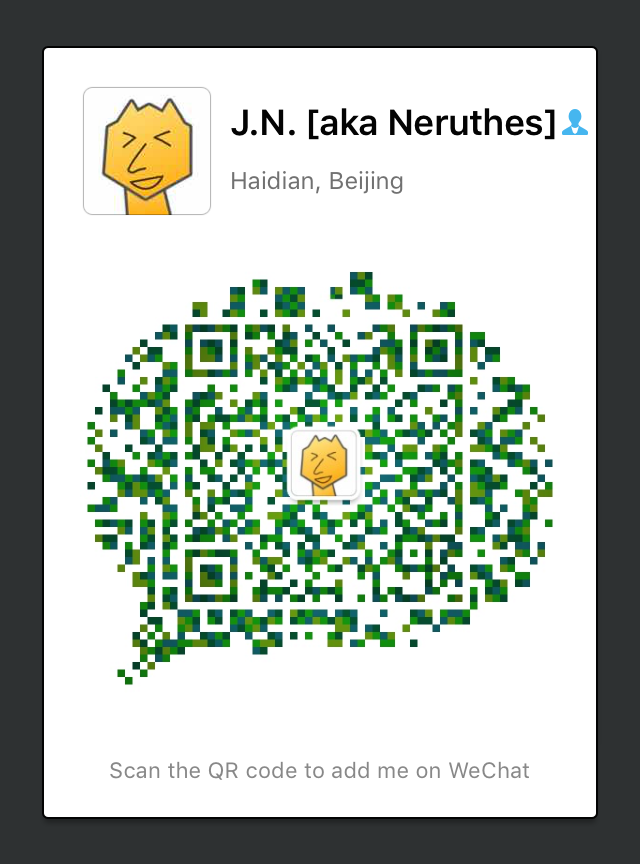
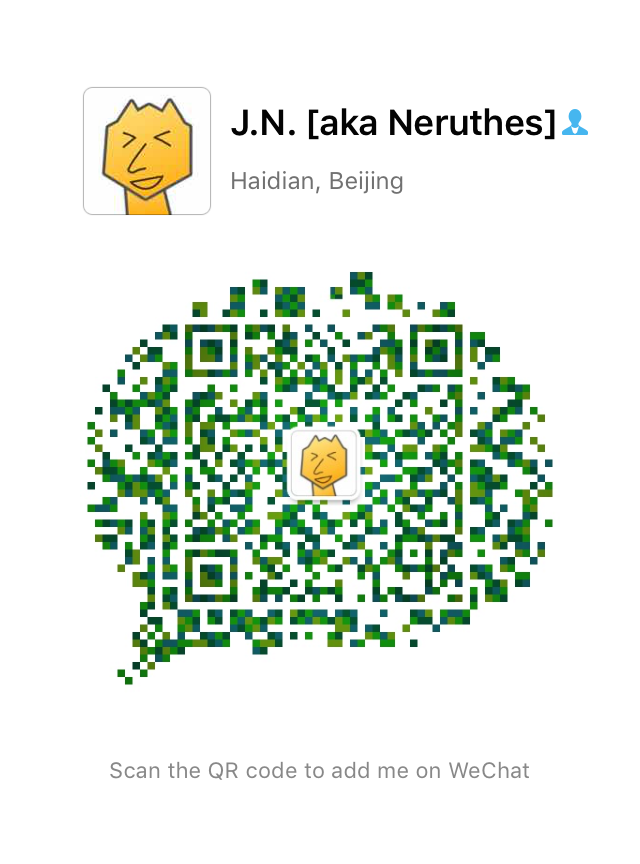
Updated mobile-introductory

Changed region(s): [[0.0, 0.0, 1.0, 1.0]]

diff --git a/mobile-introductory/index.html b/mobile-introductory/index.html
@@ -10,8 +10,6 @@
 	<link rel="apple-touch-icon" href="/favicon.png">
 	<link rel="prefetch" href="./joyneop-wechat.png">
 	<link rel="subresource" href="./joyneop-wechat.png">
-    <link rel="prefetch" href="./gray-bg.png">
-	<link rel="subresource" href="./gray-bg.png">
     <style>
     html, body {
         overflow: hidden;
@@ -59,7 +57,7 @@
             <div class="fixed full-width text-center" style="top: 33vh; font-size: 24px; font-weight: 100;">Product/UX Designer</div>
             <div class="fixed" style="bottom: 0; left: 20vw; width: 60vw; height: 60vw; background: url(/kotomatsu/1.jpg) center scroll no-repeat; background-size: contain;"></div>
         </div>
-        <div class="slide" id="s-2" style="background: url(./gray-bg.png) top fixed repeat;">
+        <div class="slide" id="s-2" style="background: #FFF;">
             <div class="fixed full-width full-height" style="top: 0; left: 0; background: url(./joyneop-wechat.png) center scroll no-repeat; background-size: contain;"></div>
         </div>
     </div>
